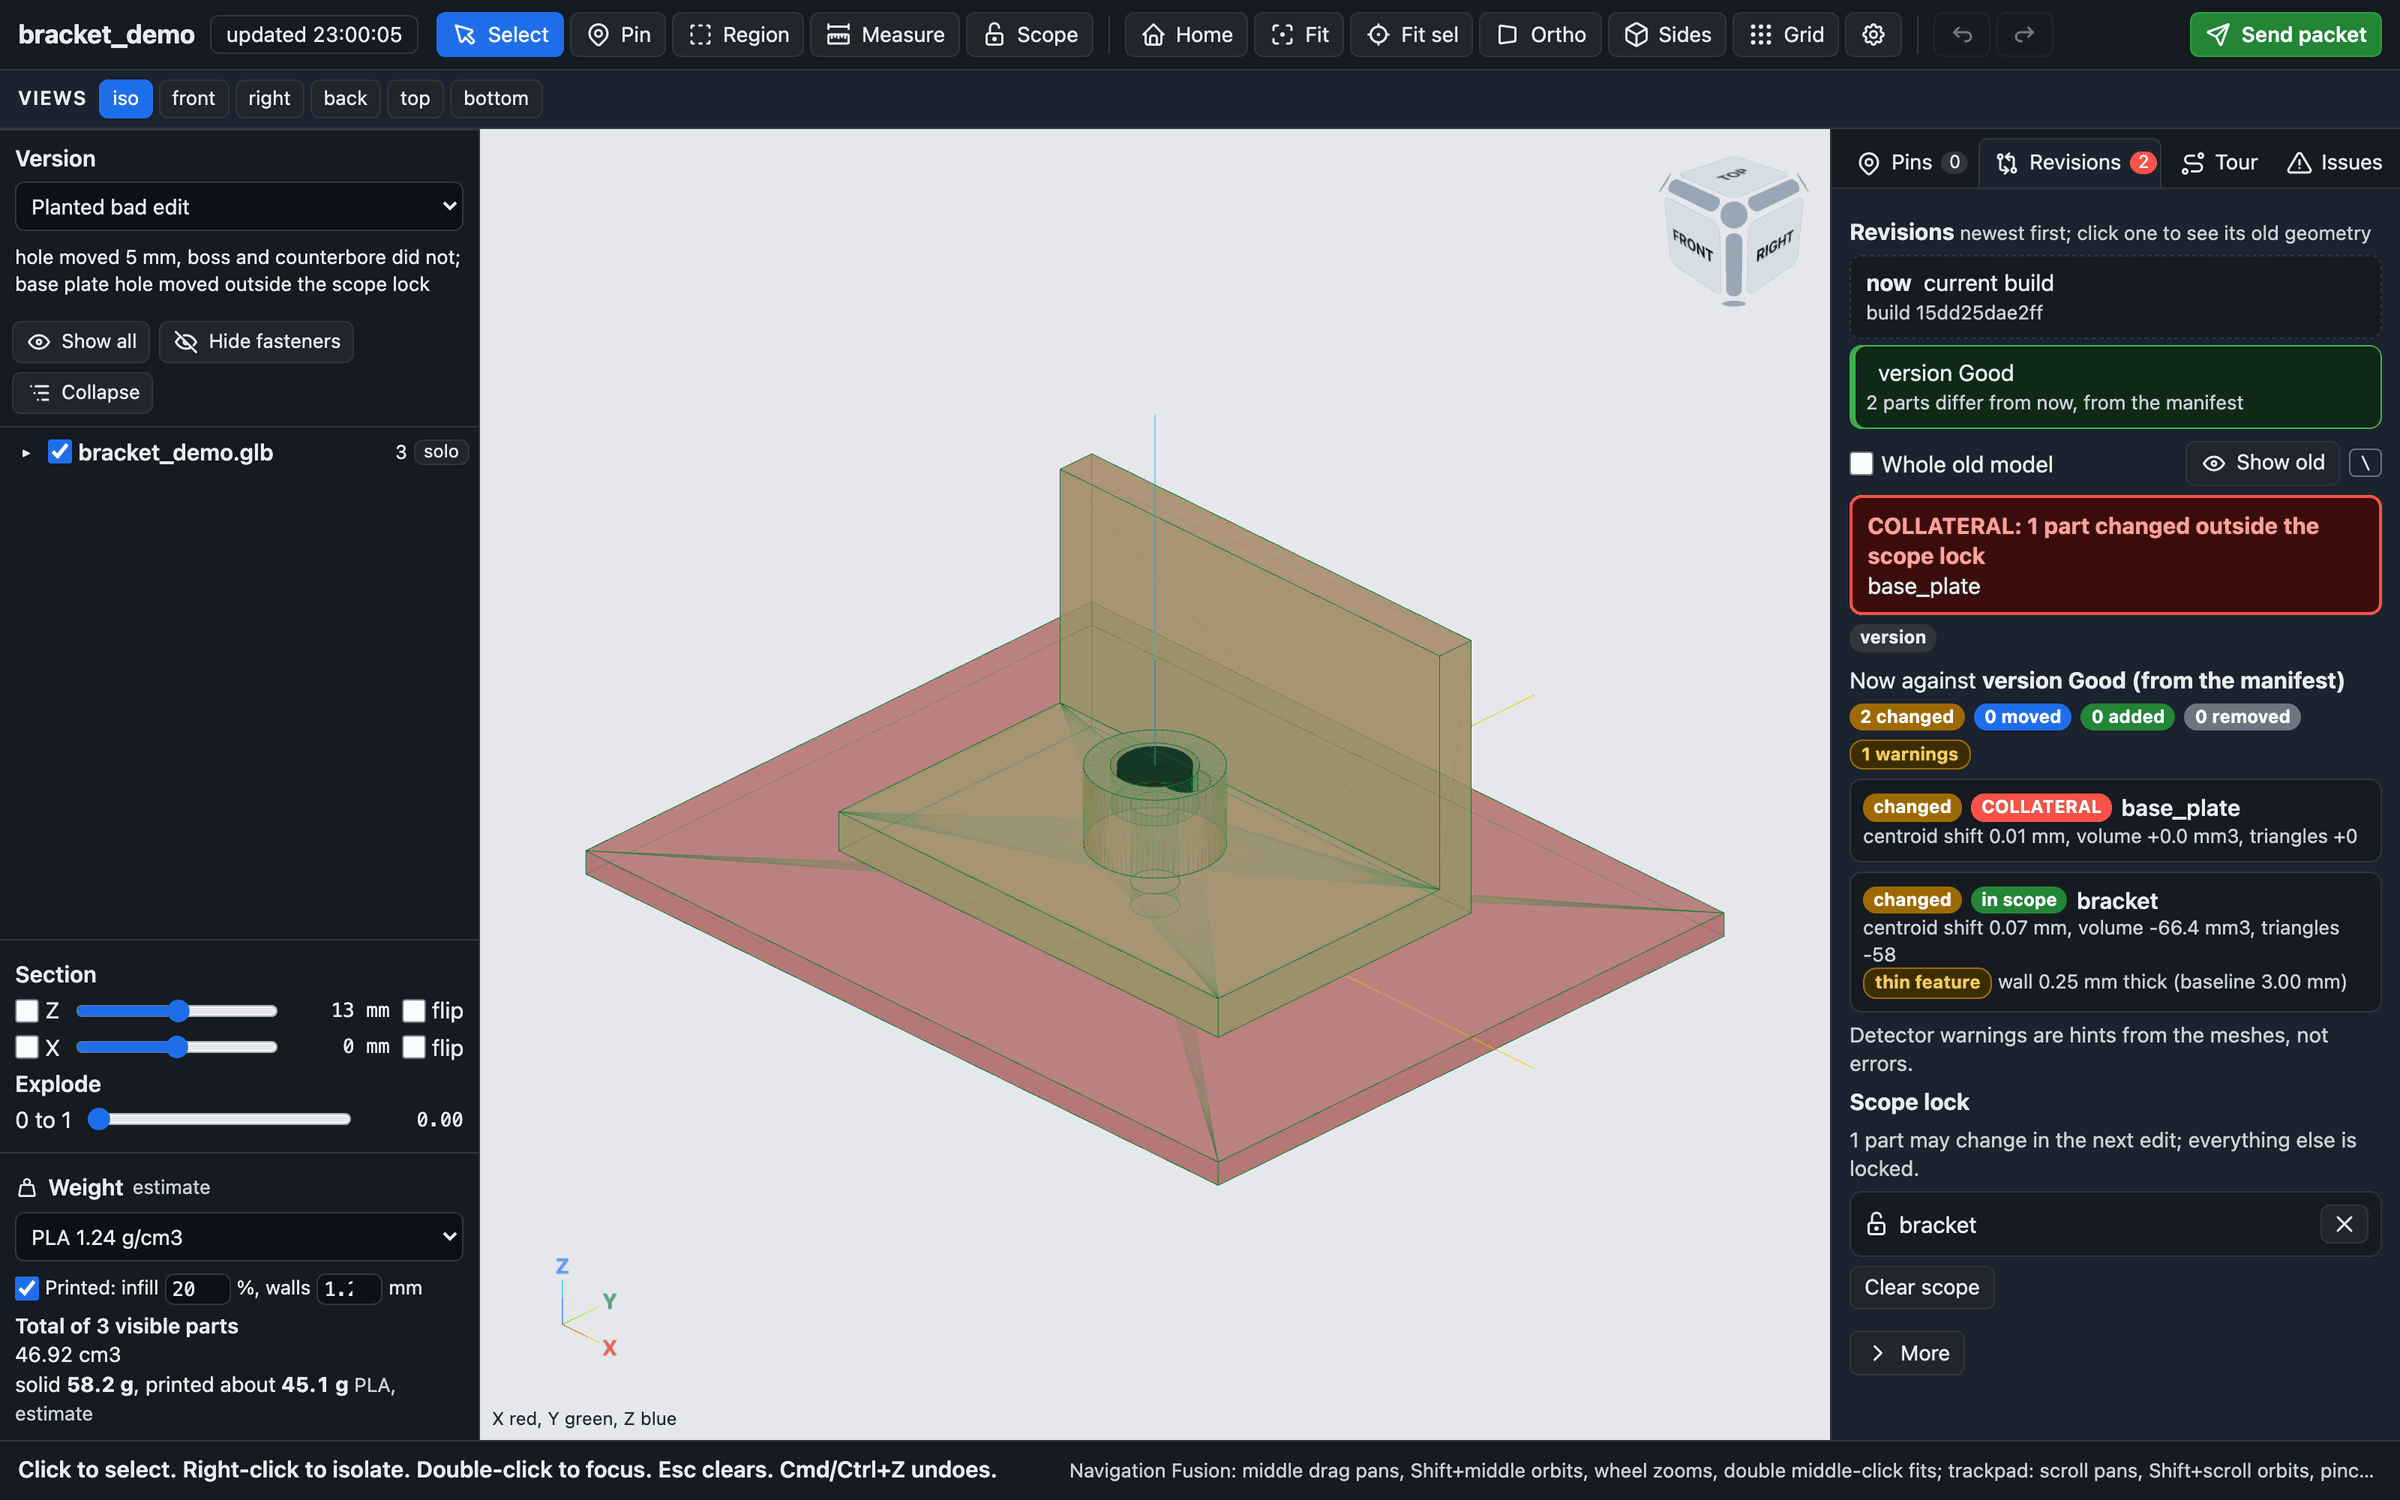
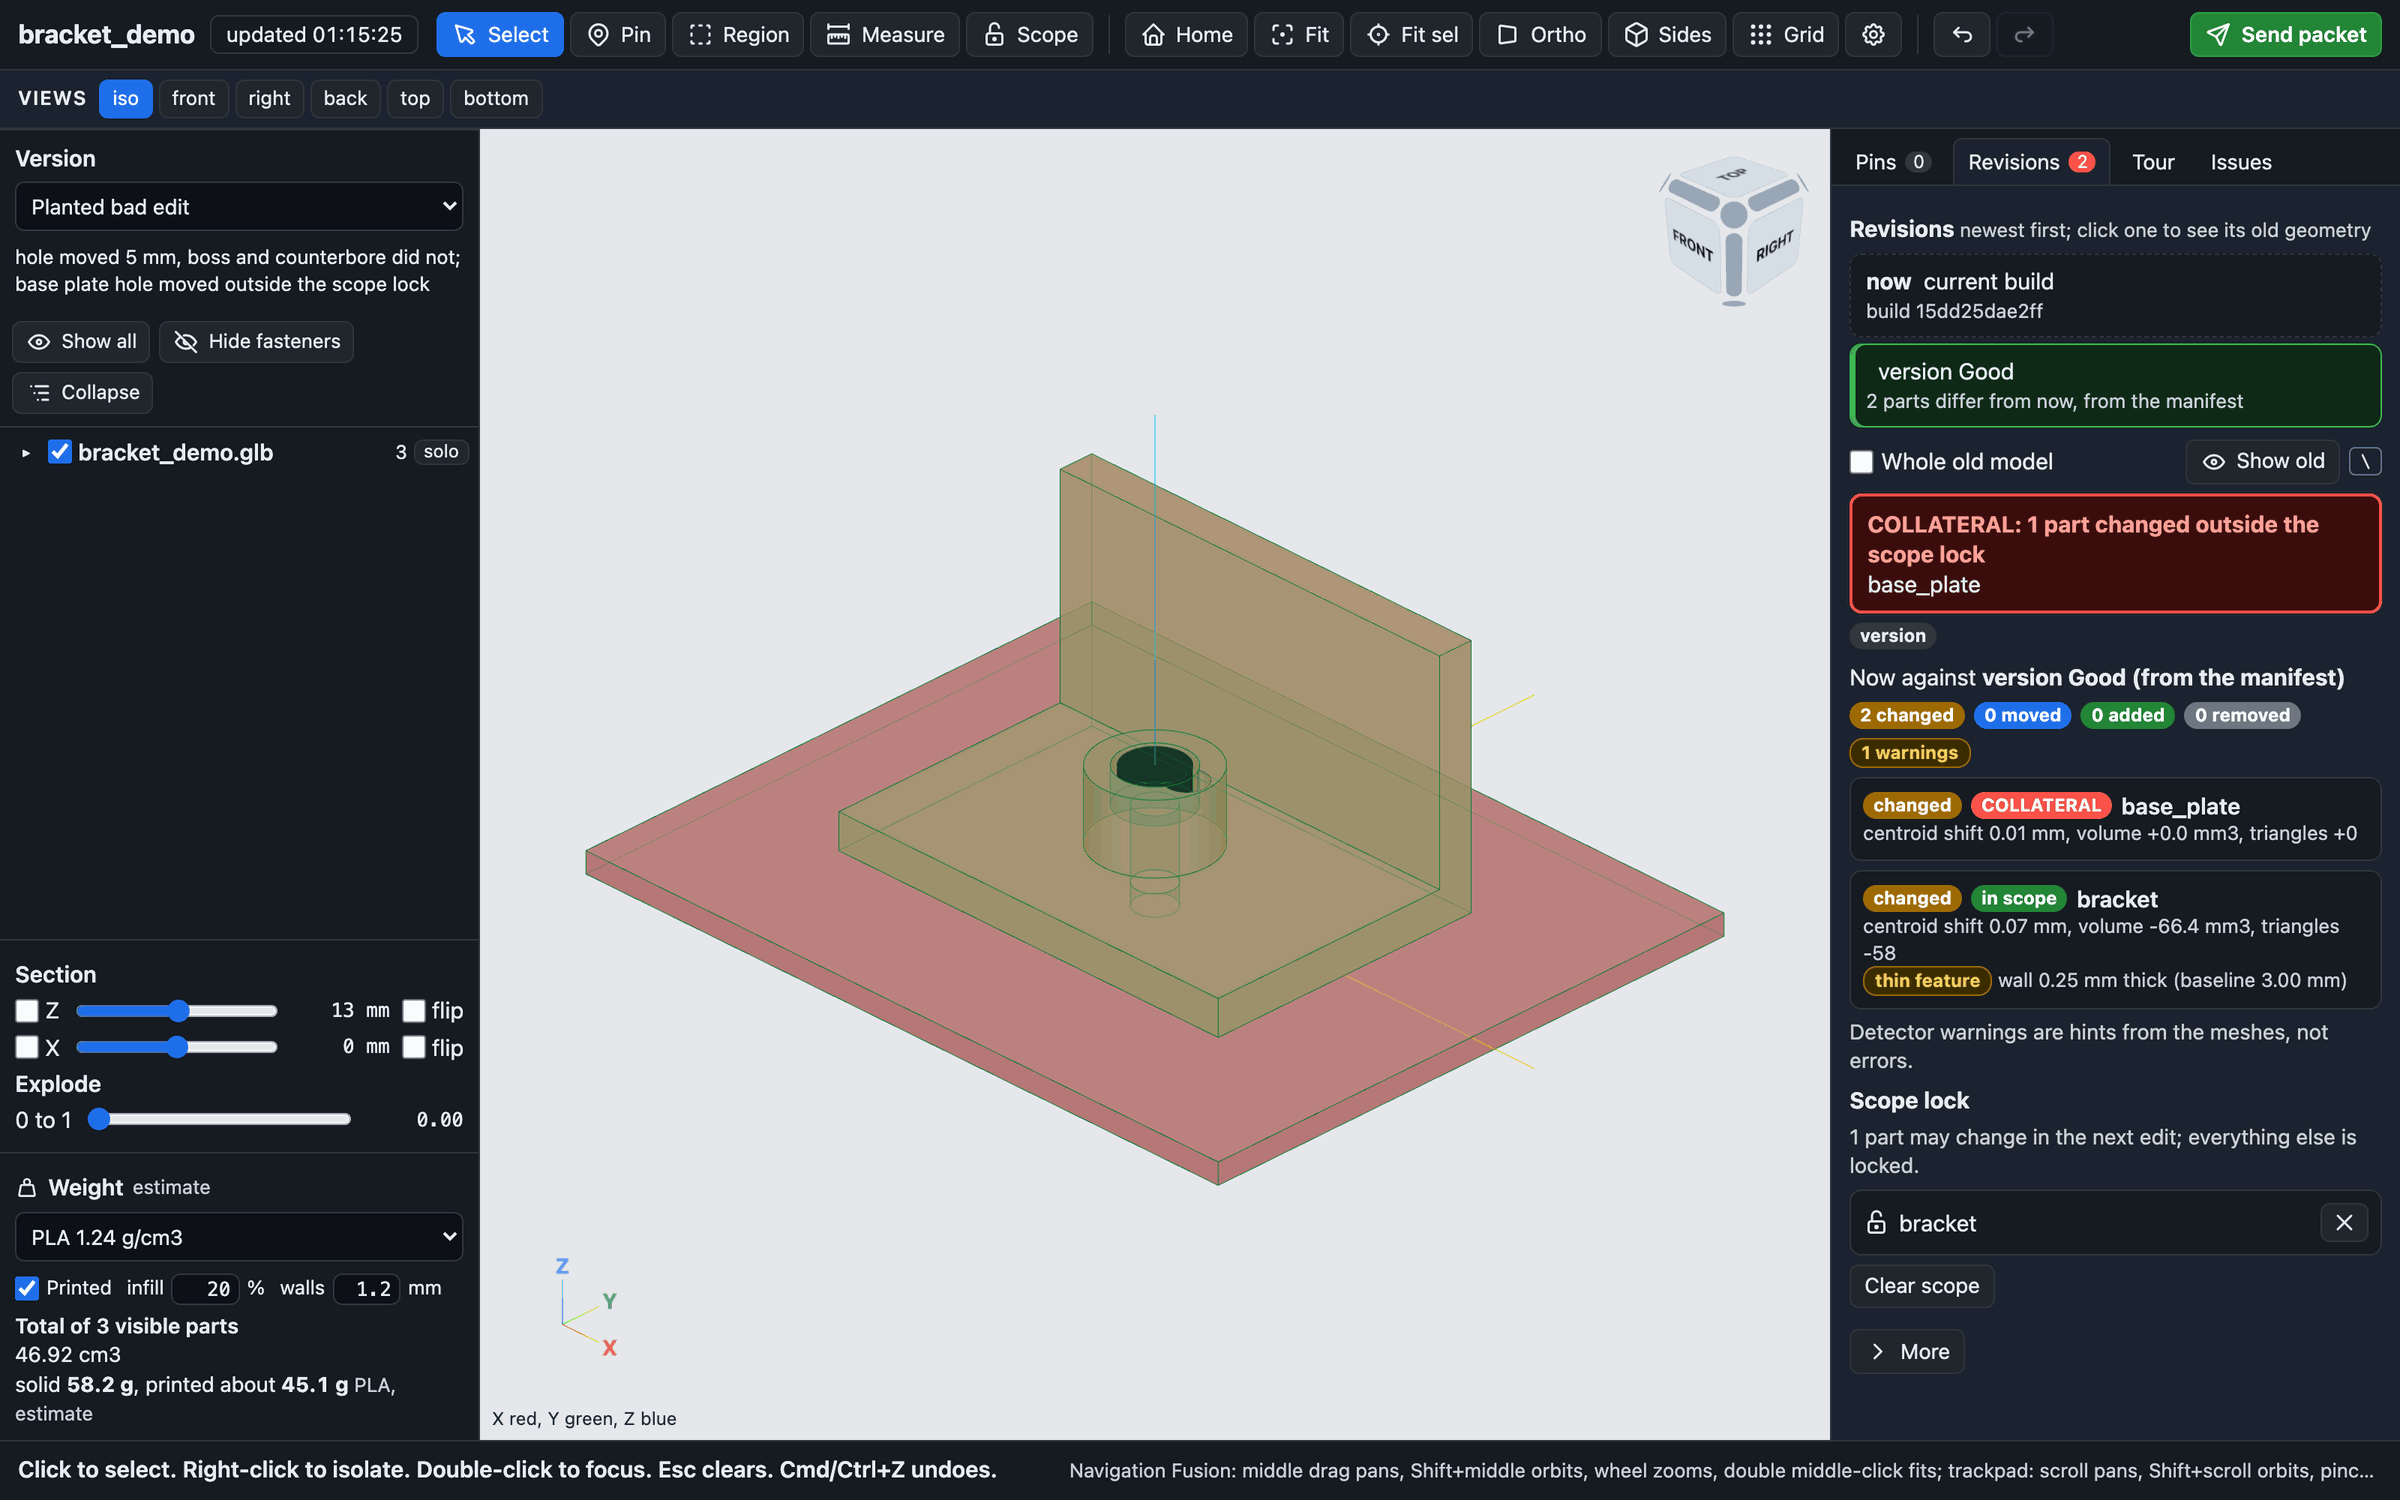
README: screenshots and clip recaptured from the polished viewer

diff --git a/README.md b/README.md
@@ -1,6 +1,6 @@
 # aad
 
-<p align="center"><img src="docs/media/hero.png" width="900" alt="The aad viewer with a turntable assembly open, numbered pins on the model, the view cube in the corner and the Pins panel on the right"></p>
+<p align="center"><img src="docs/media/hero.png" width="900" alt="The aad viewer with a turntable drum assembly open, numbered pins on the faceplate and the drum base, the view cube in the corner and the Pins panel on the right"></p>
 
 **agent aided design.** A local review workspace for CAD that coding agents write.
 
@@ -56,7 +56,7 @@ vendored. It reads any GLB (and STL or PLY), runs on 127.0.0.1 and makes no netw
 <td align="center"><img src="docs/media/pin-card.png" width="440" alt="The pin card on the bracket demo with a note typed and the class chips in four groups"><br><sub>The pin card: change requests, problems, notes to the agent. The note is optional.</sub></td>
 </tr>
 <tr>
-<td align="center"><img src="docs/media/scope-diff.png" width="440" alt="Revisions tab comparing the current build with what was reviewed, changed parts tinted and the old geometry as a green hologram"><br><sub>Since your last packet: two parts changed outside the scope lock, the old shape in green.</sub></td>
+<td align="center"><img src="docs/media/scope-diff.png" width="440" alt="Revisions tab on a dark background comparing the current build with what was reviewed, the old geometry of the changed parts drawn as a green hologram over the current model"><br><sub>Since your last packet: two parts changed outside the scope lock, their old shape as a green hologram.</sub></td>
 <td align="center"><img src="docs/media/tour.png" width="440" alt="Tour tab with the agent's stops and Accept, Reject and Repin buttons"><br><sub>The agent's change tour. Each stop flies to its parts; accept, reject or repin.</sub></td>
 </tr>
 <tr>
